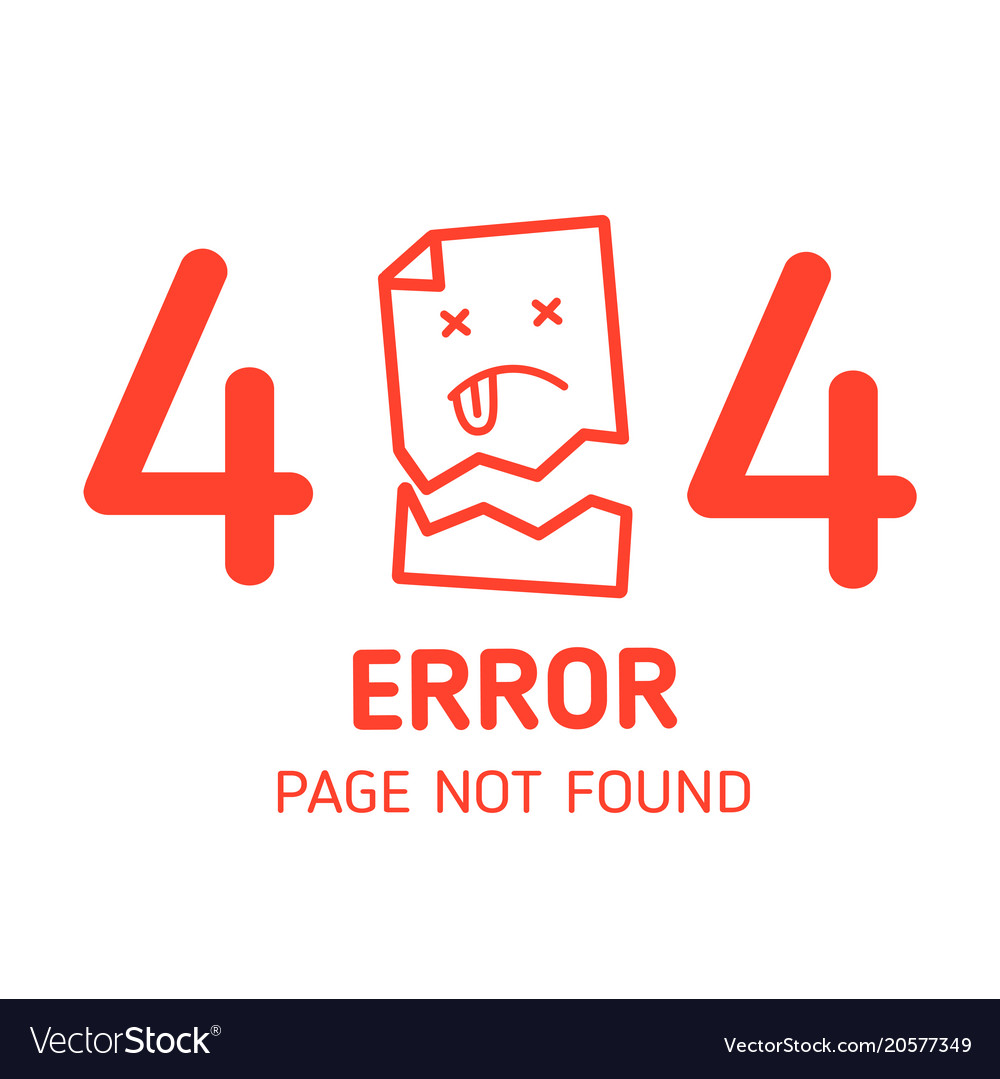
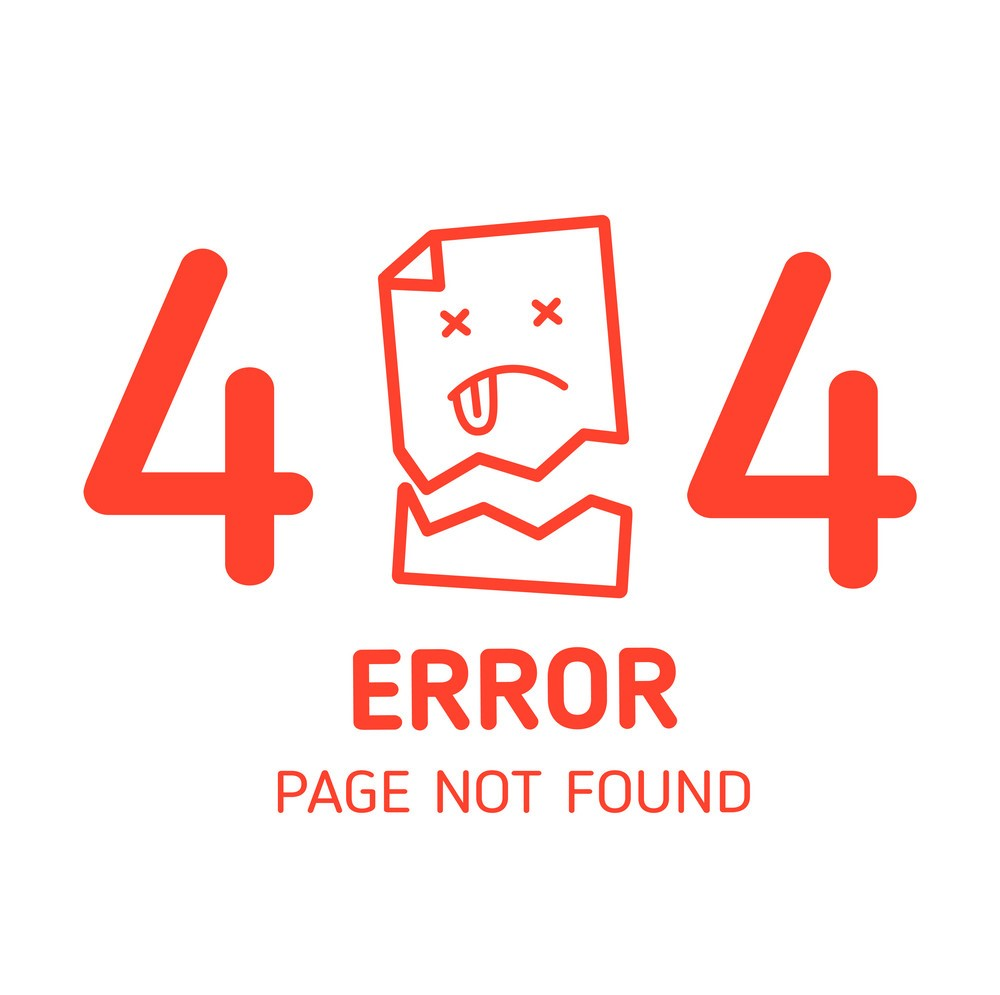
not found component

diff --git a/src/App.js b/src/App.js
@@ -8,6 +8,7 @@ import {
   Route,
 
 } from "react-router-dom";
+import NotFound from './components/NotFound/NotFound';
 function App() {
   return (
     <div >
@@ -16,6 +17,9 @@ function App() {
         <Switch>
           <Route exact path="/" >
             <Home></Home>
+          </Route>
+          <Route path="*" >
+            <NotFound></NotFound>
           </Route>
         </Switch>
       </BrowserRouter>

diff --git a/src/components/NotFound/NotFound.js b/src/components/NotFound/NotFound.js
@@ -1,0 +1,11 @@
+import React from 'react';
+import img from '../../images/not.jpg'
+const NotFound = () => {
+    return (
+        <div className="m-auto">
+            <img className="mx-auto d-block" style={{ 'height': '700px' }} src={img} alt="Not Found" />
+        </div>
+    );
+};
+
+export default NotFound;
